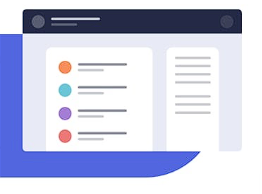
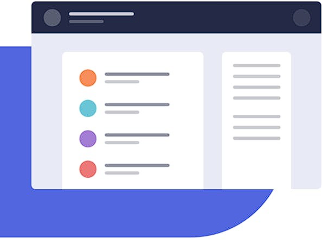
Modificación para adaptación de escritorio

diff --git a/styles/style.css b/styles/style.css
@@ -7,7 +7,7 @@
 
 body{
     font-family: 'Rubik', sans-serif;
-    width: 100%;
+    max-width: 100%;
     overflow-x: hidden;
 }
 
@@ -151,6 +151,11 @@ ul.show{
 
 
 /* Main Styles */
+
+@media screen and (max-width: 858px) {
+
+}
+
 
 p{
     color: hsl(229, 8%, 60%);
@@ -356,18 +361,12 @@ h2, h3, h4, h5, h6{
 }
 /* Estilos del acordeón */
 .acordeon{
-    max-width: 100vh;
-    min-height: 100px;
     align-items: center;
     text-align: center;
 }
 
-.subapartado{
-    min-height: 50px;
-}
+
 .acordeon_titulo{
-    width: 100%;
-    min-height: 50px;
     overflow: hidden;
     display: flex;
     justify-content: space-between;
@@ -442,13 +441,6 @@ div.subapartado:hover div.info{
 /* End of five container styles */
 
 
-@media screen and (min-width: 1024px ) {
-    .first_screen {
-        width: 1%;
-        background-color: #ff0000;
-    }
-}
-
 /* header styles */
 
 footer{
@@ -508,5 +500,53 @@ footer{
         grid-template-columns: repeat(1, 1fr);
         grid-gap: 30px;
         padding: 35px 0px;
+    }
+}
+/* End of header styles */
+
+/* Responsive computadores */
+
+
+@media screen and (min-width: 859px ) {
+    .first_container{
+        display: inline-block;
+        /* flex-direction: column; */
+    }
+    .first_screen{
+        text-align: end;
+        display: flex;
+        justify-content: flex-end;
+    }
+    .first_text{
+        width: 50%;
+        position: relative;
+        top: 0vh;
+        right: 0vh;
+    }
+
+    .second_container{
+    padding: 0px 30vh;
+    }
+    .second_container h2{
+        text-align: center;
+    }
+    .buttons{
+        display: flex;
+        justify-content: space-around;
+        flex-flow:nowrap;
+    }
+    .third_container{
+        padding: 0px 30vh;
+    }
+    .third_container .mini_containers{
+        max-width: 50vh;
+
+    }
+    .third_container .mini_containers, .first_mini, .second_mini, .third_mini{
+        max-width: 50vh;
+        margin: 3vh auto !important;
+    }
+    .fourth_container {
+
     }
 }
